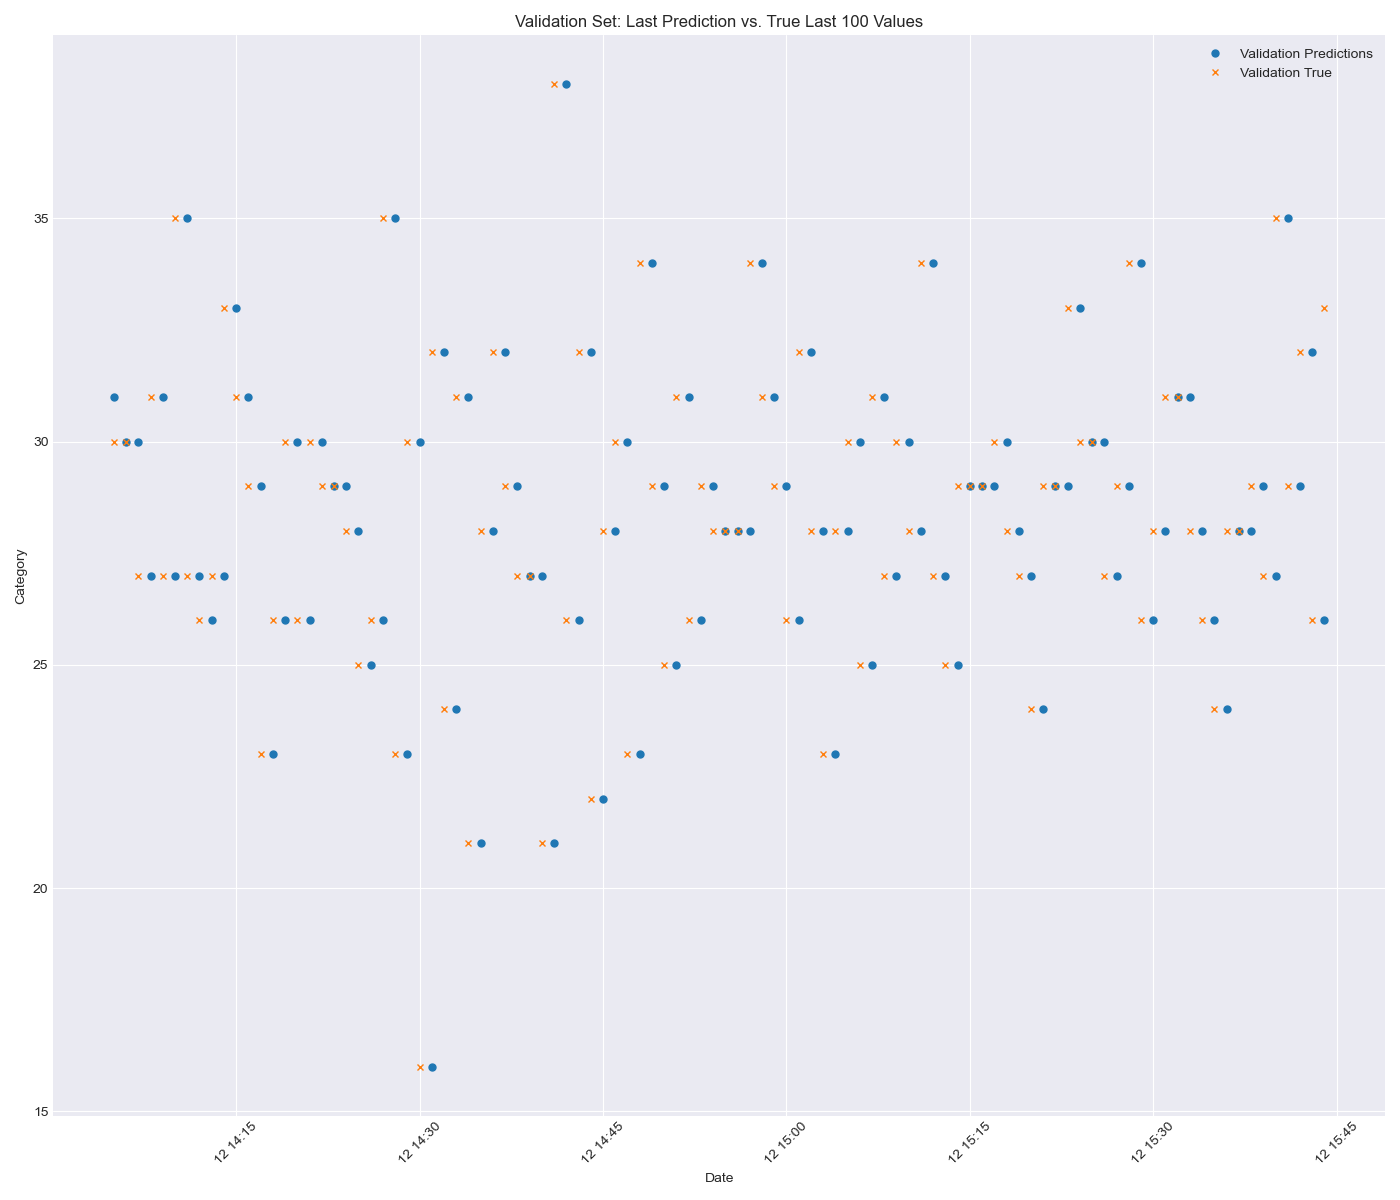
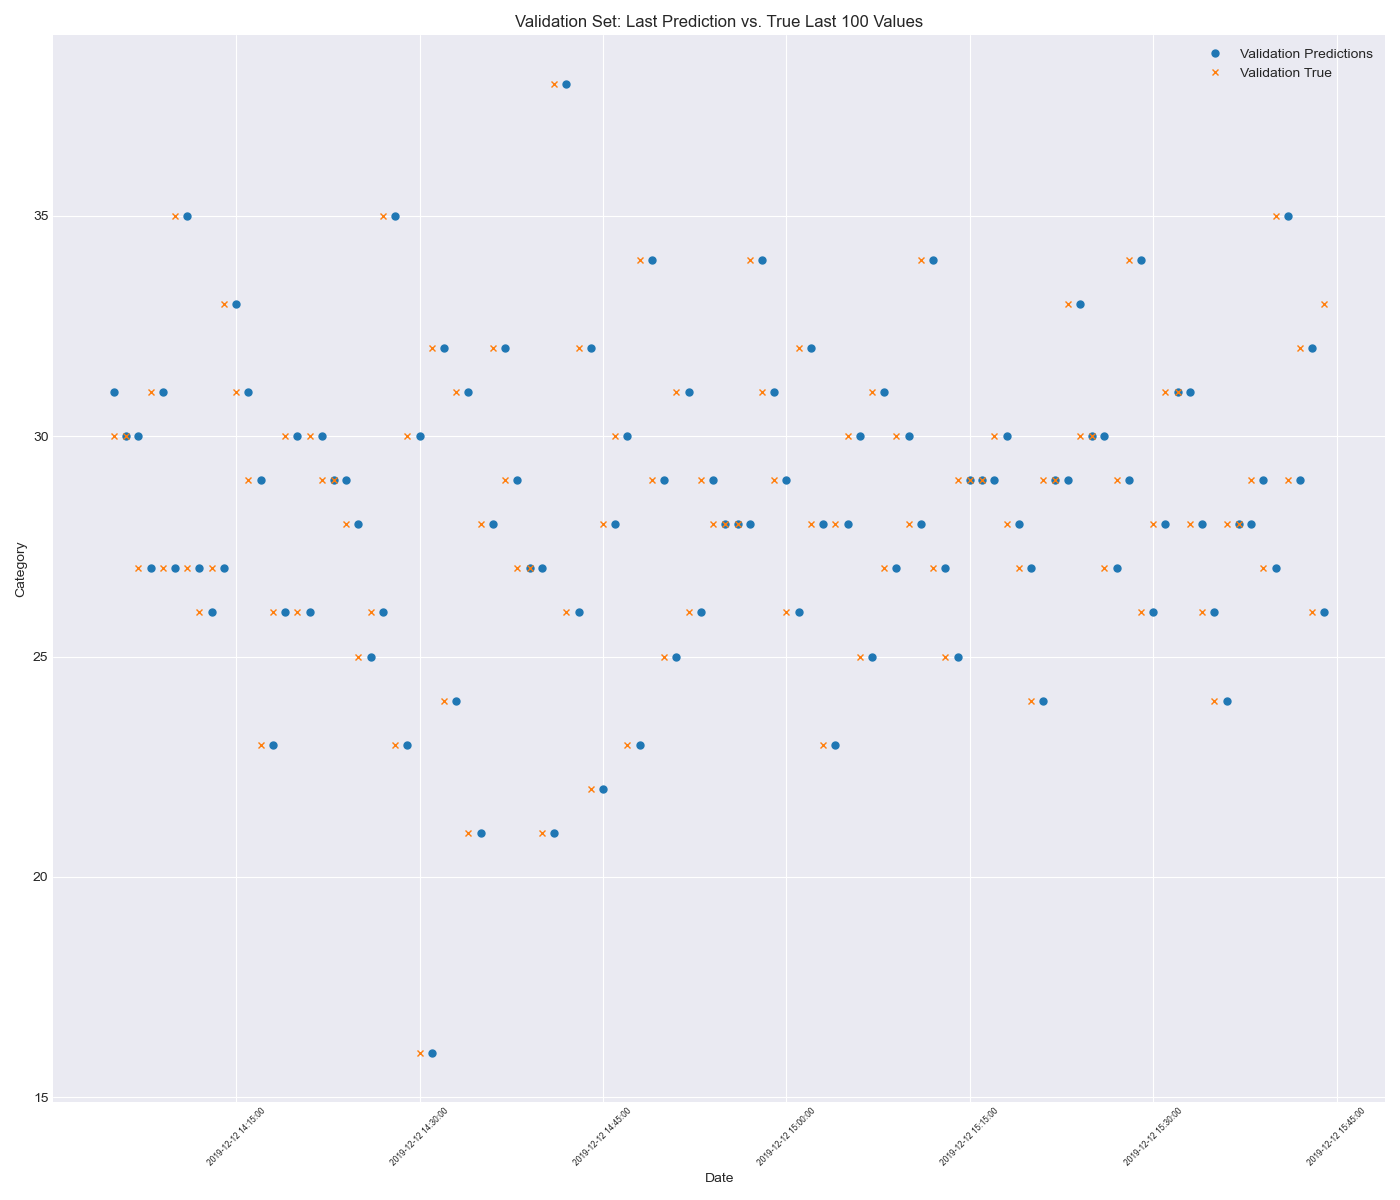
Further Transformer Model edits

diff --git a/code/main.py b/code/main.py
@@ -9,6 +9,7 @@ from transformer import Transformer, CustomSchedule
 from helper_functions import print_confusion_matrix_stats, get_category, calculate_accuracy, \
     calculate_last_accuracy, simulate_trading
 from preprocess import preprocess
+import matplotlib.dates as mdates
 
 
 def main():
@@ -73,8 +74,8 @@ def main():
         save_best_only=True)
 
     # Train the model
-    history = model.fit(x=train_inputs, y=y_train, batch_size=32, epochs=2, validation_data=(val_inputs, y_val),
-                        callbacks=[model_checkpoint_callback])
+    # history = model.fit(x=train_inputs, y=y_train, batch_size=32, epochs=2, validation_data=(val_inputs, y_val),
+    #                     callbacks=[model_checkpoint_callback])
 
     # # plot the training and validation loss:
     # plt.plot(history.history['loss'], label='Training Loss')
@@ -173,7 +174,8 @@ def main():
     plt.xlabel('Date')
     plt.ylabel('Category')
     plt.legend()
-    plt.xticks(rotation=45)
+    plt.xticks(rotation=45, fontsize=6)
+    plt.gca().xaxis.set_major_formatter(mdates.DateFormatter('%Y-%m-%d %H:%M:%S'))
     plt.tight_layout()
     plt.savefig("figs/validation_last_pred_true_over_time_last_100.png")
     plt.show()
@@ -205,7 +207,8 @@ def main():
     plt.xlabel('Date')
     plt.ylabel('Category')
     plt.legend()
-    plt.xticks(rotation=45)
+    plt.xticks(rotation=45, fontsize=6)
+    plt.gca().xaxis.set_major_formatter(mdates.DateFormatter('%Y-%m-%d %H:%M:%S'))
     plt.tight_layout()
     plt.savefig("figs/test_last_pred_true_over_time_last_100.png")
     plt.show()

diff --git a/code/preprocess.py b/code/preprocess.py
@@ -37,8 +37,6 @@ def window_data(data, data_percents, dates, window):
     y_percents = []
     y_dates = []
     for i in range(0, len(data) - window):
-        if i + window + 1 > len(data):
-            x = 1
         if i + window + 1 < len(data):
             x.append(data[i: i + window])
             y.append(data[i + 1: i + window + 1])
@@ -97,7 +95,7 @@ def preprocess(df: pd.DataFrame, window_size: int = 20):
     upper_bound = 0.0070  # train_df['Percent Change'].max()
 
     # generate the buckets:
-    step_size = 0.00025  # This is 0.05% or 5 bps
+    step_size = 0.00025  # This is 0.025% or 2.5 bps
     negative_buckets = np.arange(-step_size, lower_bound - step_size, -step_size)[::-1]
     positive_buckets = np.arange(0, upper_bound + step_size, step_size)
 
